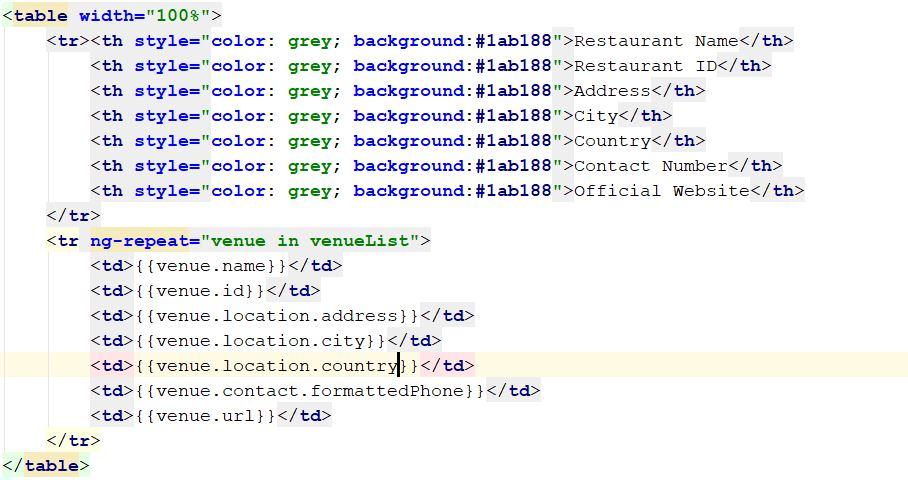
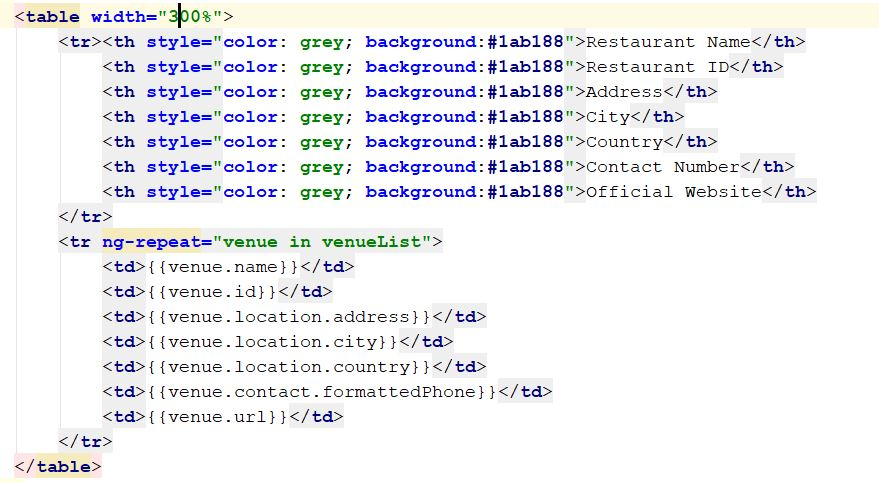
updation

Changed region(s): [[0.0, 0.0, 1.0, 0.4375], [0.0, 0.4375, 1.0, 1.0]]

diff --git a/InClass5/ICE-Restaurants for U/index.html b/InClass5/ICE-Restaurants for U/index.html
@@ -102,7 +102,7 @@
     <div id="div_VenueList">
         <h2 style="text-align: center; color: #1ab188"> Top Five Picks From FourSquare Review API </h2>
         <ul>
-            <table width="100%">
+            <table width="300%">
                 <tr><th style="color: grey; background:#1ab188">Restaurant Name</th>
                     <th style="color: grey; background:#1ab188">Restaurant ID</th>
                     <th style="color: grey; background:#1ab188">Address</th>
